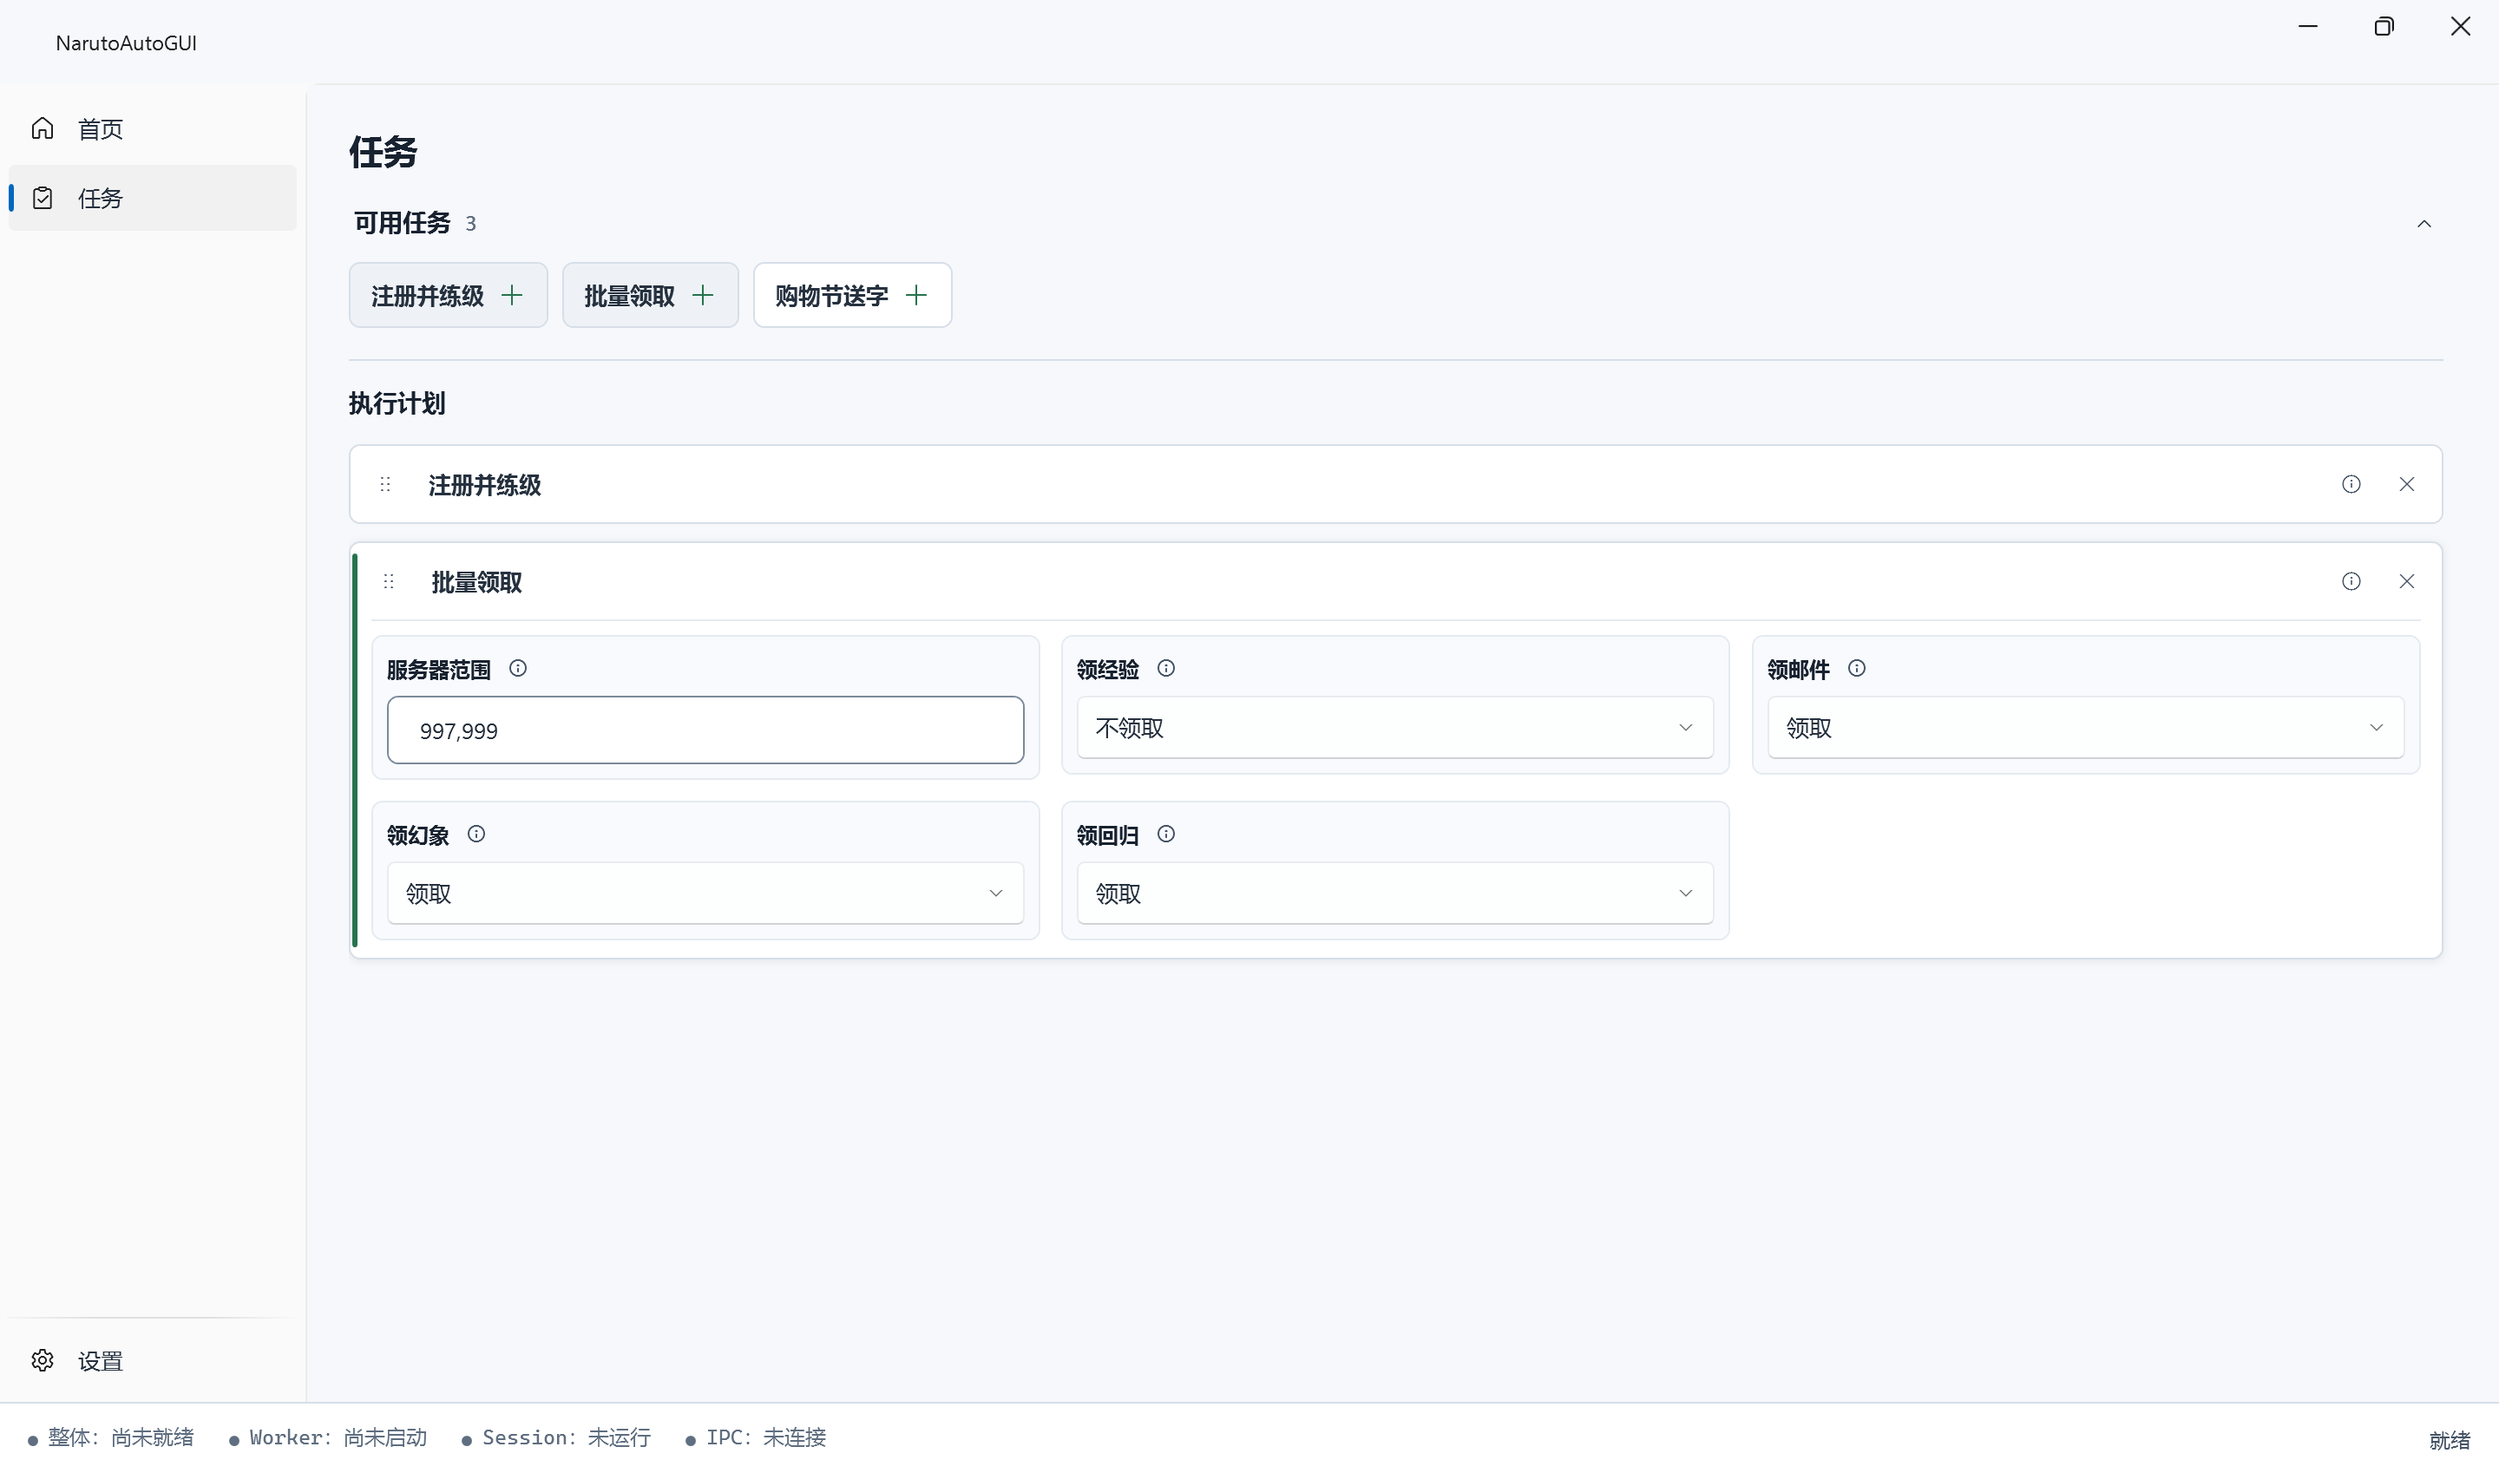
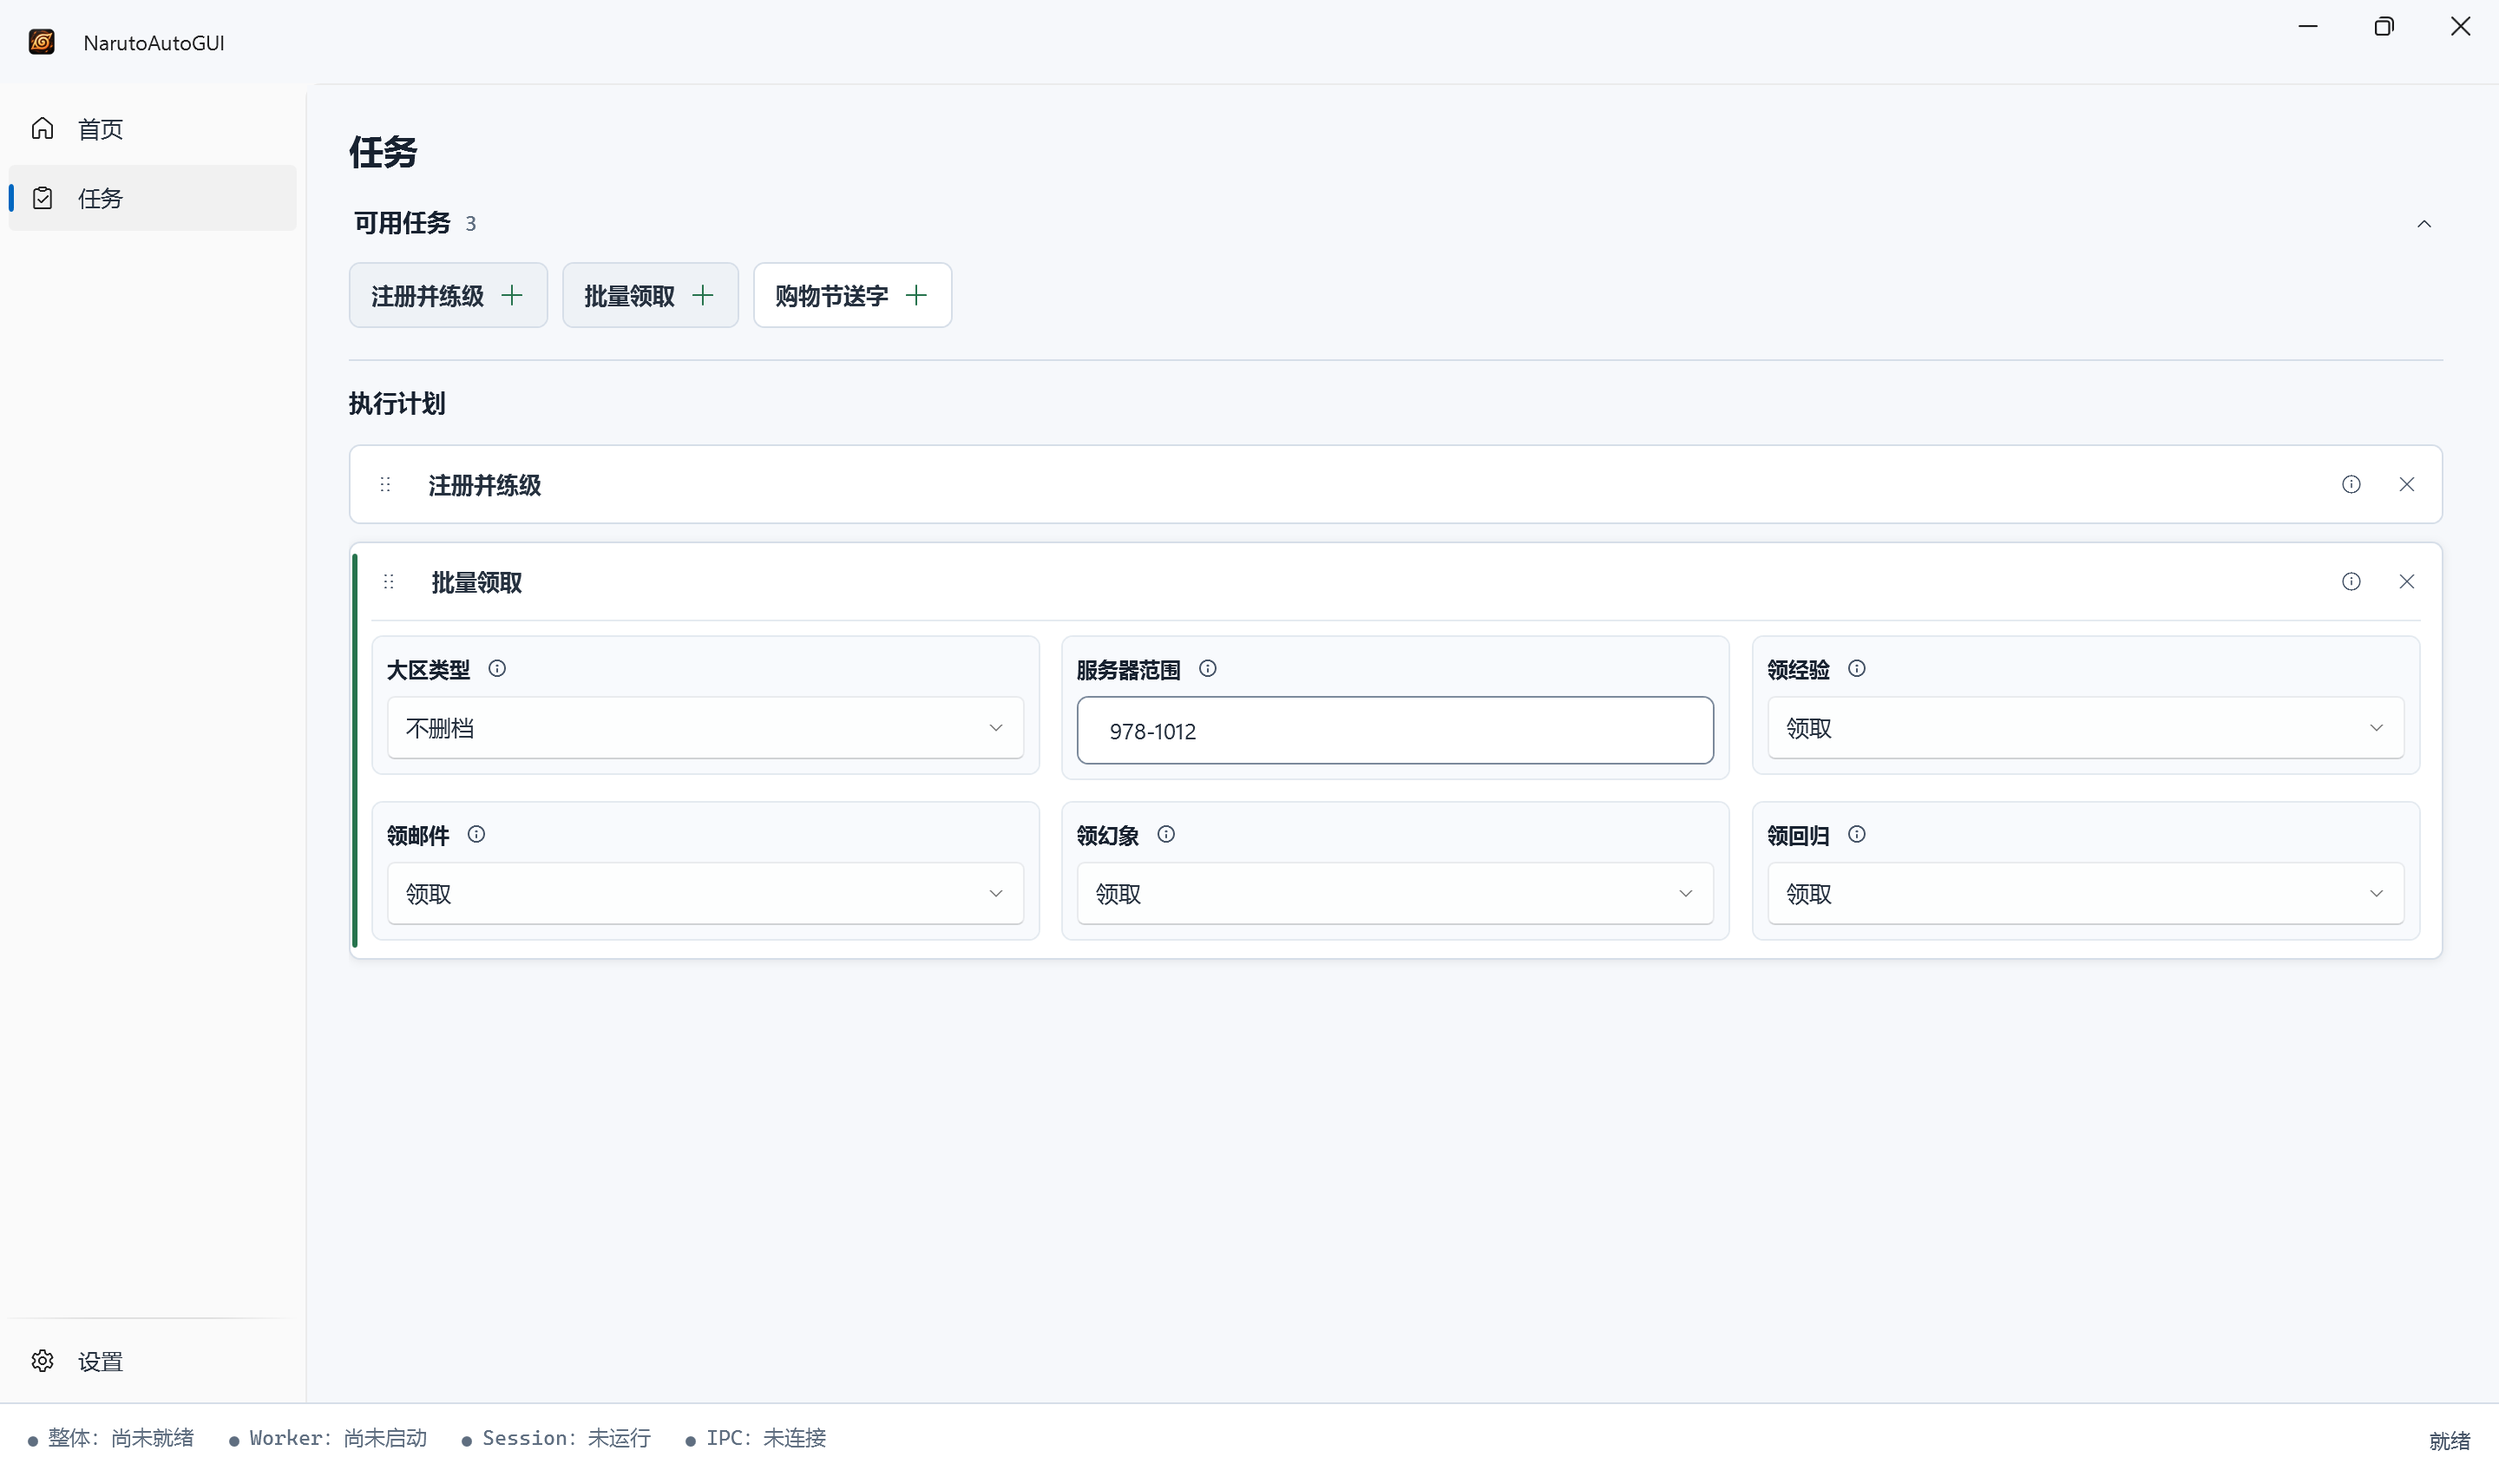
docs: 更新readme

diff --git a/README.md b/README.md
@@ -10,13 +10,13 @@
 
 MaaNOP 是基于 [MaaFramework](https://github.com/MaaXYZ/MaaFramework) 图像识别技术与行为编排能力开发的《火影忍者 Online》微端自动化辅助工具，配套专用的 Windows 图形客户端 [NarutoAutoGUI](https://github.com/ArcherSore/NarutoAutoGUI)。
 
-> 💡 **核心特色：Windows 原生后台运行，完全不抢占前台键鼠**  
+> 💡 **核心特色：Windows 原生后台运行，完全不抢占前台键鼠** 
 > 游戏与自动化流程运行于 Windows 原生 Child Session（独立子会话 / 桌面分身）中，前台鼠标、键盘与窗口焦点完全不受影响——后台自动练级做日常的同时，前台照常办公、看视频、打游戏。
 
-> [!WARNING]
-> # ⚠ 注意：目前仅支持【公测】区服！
-> **当前所有选服识别、OCR 匹配与自动化逻辑仅适配「公测」大区（例如公测 1 区、公测 xxx 区）！**  
-> 其他大区暂未适配，请务必在游戏微端的**「公测」**分区下运行！【下版本适配】
+> [!NOTE]
+> **大区支持说明**：
+> 目前已全面适配官方微端的 **「公测大区」** 与 **「不删档大区」** 全部分页！可在全局配置中自由切换。 
+> *(注：联盟大区暂未适配)*
 
 ---
 
@@ -36,10 +36,10 @@ Tasks 任务配置页：
 
 1. 前往 [MaaNOP Releases](https://github.com/ArcherSore/MaaNOP/releases) 下载最新的 Windows x64 全量发布包（`MaaNOP-win-x86_64-*.zip`）。
 2. 将压缩包**完整解压**到一个无中文或特殊符号的文件夹中（请勿只复制部分文件，不要在压缩包内直接双击运行）。
-3. 确保电脑已安装 **火影忍者 Online 微端**（⚠ **当前仅支持官方微端**，且**仅支持「公测」大区**！QQ游戏大厅、360游戏大厅及其它大区均不支持）。
-4. 双击运行 `NarutoAutoGUI.exe`（在 Windows 提示时允许 UAC 权限）。
+3. 确保电脑已安装 **火影忍者 Online 微端**（⚠ **当前仅支持官方微端**，QQ游戏大厅、360游戏大厅均不支持）。
+4. 双击运行 `NarutoAutoGUI.exe`。
 5. 在首页点击 **“准备运行环境”**，等待系统拉起独立的 Child Session 后台桌面。
-6. 在弹出的会话桌面中正常登录游戏，并停留在 **选服务器界面**（⚠ **务必停留在「公测」大区分页**）。
+6. 在弹出的会话桌面中正常登录游戏，并停留在 **选服务器界面**。
 7. 切换回主窗口的“任务”页，选择并配置任务参数，最后返回首页点击 **“开始任务”**。
 
 > NarutoAutoGUI 会自动从目录中读取 `interface.json` 配置，并自动定位微端启动路径、启动参数与 AppId。
@@ -51,15 +51,15 @@ Tasks 任务配置页：
 当前支持的任务均可在图形界面中灵活开关与配置，各任务共享全局的 **服务器范围（ServerRange）** 设置：
 
 ### 🚪 前置选服与跨区支持（全局设置）
-- ⚠ **大区支持**：**目前仅支持「公测」大区！**（涵盖公测 1-999 区与 1000+ 区，非公测大区暂未适配）。【下版本适配】
-- **服务器范围格式**：支持形如 `1-10,15,20-25` 的跨区区间配置，任务会按范围依次处理对应公测区服。
+- **大区支持**：支持所有公测和不删档大区。
+- **服务器范围格式**：支持形如 `1-10,15,20-25` 的跨区区间配置，任务会按范围依次处理对应区服。
 - **智能网格推断**：内置服务器列表动态 OCR 与连续性矩阵校准算法，滚动查找时可自动纠正图像识别噪点，确保选服精准稳定。
 
 ### 🐣 注册并练级 (`AccountLeveling`)
 - **功能描述**：按设定的服务器范围批量注册新角色，并全自动推进新手主线剧情，从 1 级练至 16 级。
 - **关键配置**：
   - `账号前缀（account_prefix）`：用于自动生成新角色名称。
-- **注意事项**：该任务要求从全新角色创建起跑，中途异常停止 **暂不支持断点续跑**（未来可能会支持）。
+- **注意事项**：该任务要求从全新角色创建起跑，中途异常停止 **暂不支持断点续跑**。【未来可能会支持，但希望不大】
 
 ### 🎁 日常与资源批量领取 (`AccountClaims`)
 - **功能描述**：面向已完成练级的现有账号，按服务器范围依次登录并一键收割资源。
@@ -178,10 +178,10 @@ MaaNOP/
    ```bash
    # 安装 Python 基础依赖
    pip install -r requirements.txt
-
+   
    # 安装前端检查工具依赖
    npm install
-
+   
    # 初始化配置默认 OCR 模型（自动从 MaaCommonAssets 复制）
    python configure.py
    ```
